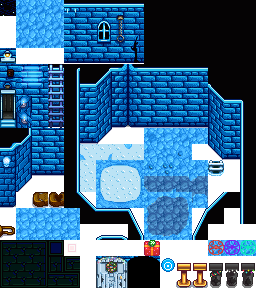
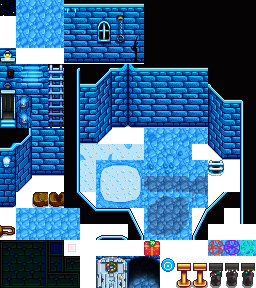
improve Theft of the Winter Star's open-door sprite
Thanks to magoozor on Nexus!

Changed region(s): [[0.5, 0.875, 0.625, 1.0]]

diff --git a/TheftOfTheWinterStar/docs/release-notes.md b/TheftOfTheWinterStar/docs/release-notes.md
@@ -1,6 +1,9 @@
 [← back to readme](README.md)
 
 # Release notes
+## Upcoming release
+* Improved dungeon's open-door sprite (thanks to magoozor!).
+
 ## 1.2.3
 Released 24 December 2021 for SMAPI 3.13.0 or later. Updated by Pathoschild.
 
